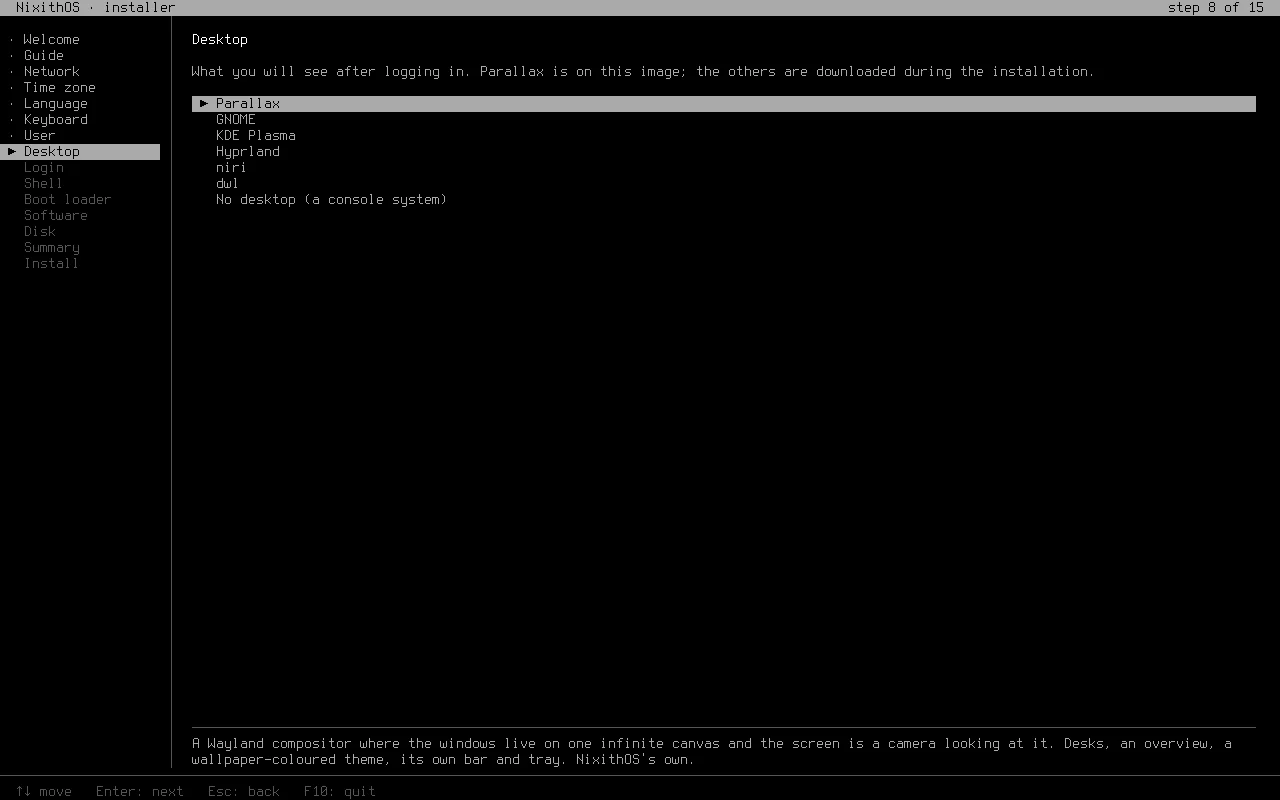
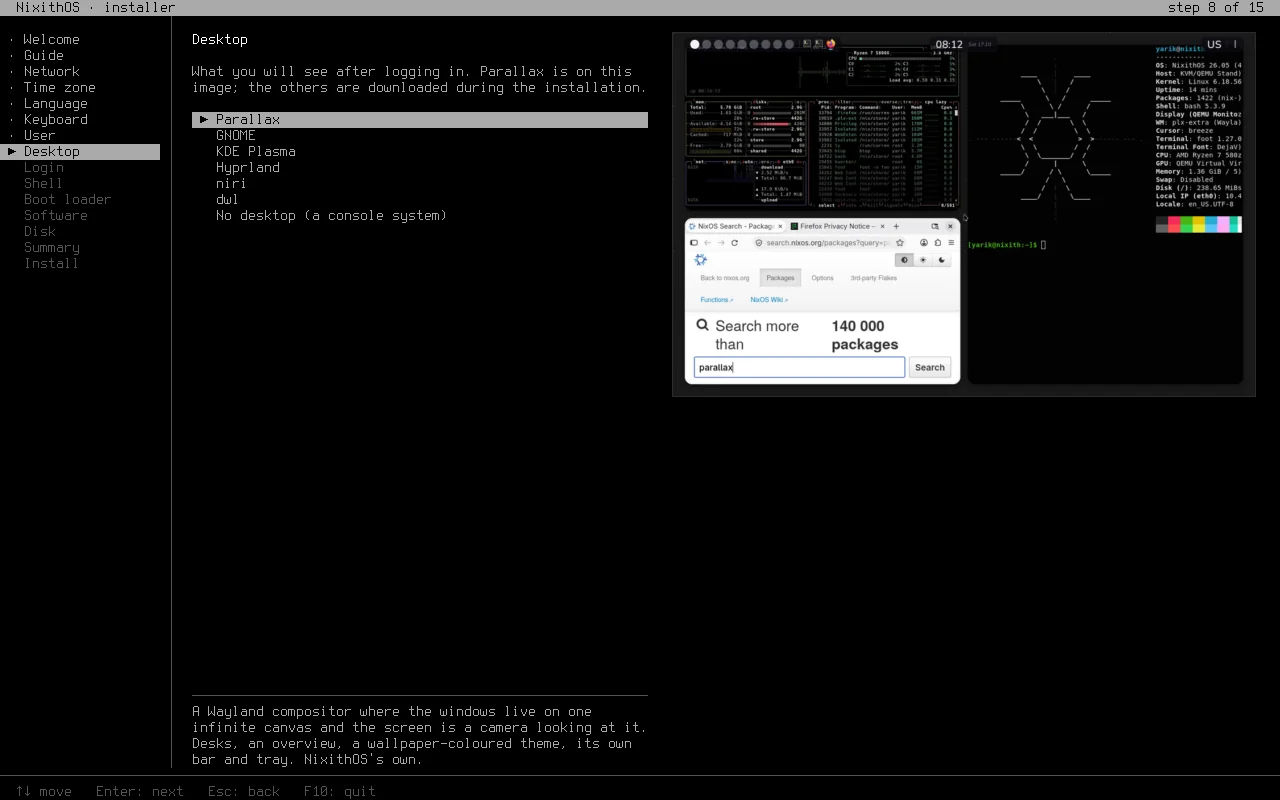
Сайт и README под выпуск 20.10: скриншоты в установщике и сеть формой
Новые снимки установщика с образа 26.05-20261020: шаг «Рабочий стол» со
скриншотом Parallax, форма скрытой сети с 802.1X, слайд во время
установки. Подписи и README говорят, что сеть — форма (WPA2, WPA3, WEP,
802.1X, скрытые сети, адрес вручную, PPPoE) и подключение переносится в
систему. Из подписи убрано, что nixith-net есть в установленной системе:
его там нет, только на образе.

Claude-Session: https://claude.ai/code/session_011xU2CXQBPDW9uXscP7i85F

diff --git a/site/ru/index.html b/site/ru/index.html
@@ -94,7 +94,7 @@
     <section id="install">
       <div class="sec-head">
         <h2>Установщик</h2>
-        <p>Образ сам запускает установщик: небольшую программу в консоли, на русском или английском. Пятнадцать коротких шагов, и до подтверждения итога на диск ничего не пишется.</p>
+        <p>Образ сам запускает установщик: небольшую программу в консоли, на русском или английском, со скриншотом каждого варианта, как их показывал Calamares. Пятнадцать коротких шагов, и до подтверждения итога на диск ничего не пишется.</p>
       </div>
       <div class="shots">
         <figure class="wide">
@@ -102,8 +102,8 @@
           <figcaption><b>Приветствие.</b> Сначала язык; колонка слева показывает все шаги и где вы сейчас.</figcaption>
         </figure>
         <figure>
-          <a href="../img/tui-network.webp"><img src="../img/tui-network.webp" width="1280" height="800" loading="lazy" alt="Шаг «Сеть»: подключено по кабелю"></a>
-          <figcaption><b>Сеть.</b> Кабель подключается сам; для Wi-Fi выберите сеть и введите пароль. В установленной системе тот же экран — <code>nixith-net</code>.</figcaption>
+          <a href="../img/tui-network.webp"><img src="../img/tui-network.webp" width="1280" height="800" loading="lazy" alt="Шаг «Сеть»: скрытая сеть Wi-Fi с WPA Enterprise (802.1X), заполнены метод, логин и пароль, ниже необязательные поля"></a>
+          <figcaption><b>Сеть.</b> Кабель подключается сам. Подключение — форма, а не один пароль: WPA2, WPA3, WEP или 802.1X с логином, скрытые сети, кабель с адресом, DNS и MAC вручную, DSL / PPPoE. Подключение остаётся в установленной системе.</figcaption>
         </figure>
         <figure>
           <a href="../img/tui-timezone.webp"><img src="../img/tui-timezone.webp" width="1280" height="800" loading="lazy" alt="Шаг «Часовой пояс», поиск сужен до Берлина"></a>
@@ -114,16 +114,16 @@
           <figcaption><b>Пользователь.</b> Логин составляется из имени (кириллица транслитерируется); тот же пароль можно дать root.</figcaption>
         </figure>
         <figure>
-          <a href="../img/tui-desktop.webp"><img src="../img/tui-desktop.webp" width="1280" height="800" loading="lazy" alt="Шаг «Рабочий стол», выбран Parallax с описанием ниже"></a>
-          <figcaption><b>Рабочий стол.</b> Parallax есть на образе, остальные скачиваются во время установки.</figcaption>
+          <a href="../img/tui-desktop.webp"><img src="../img/tui-desktop.webp" width="1280" height="800" loading="lazy" alt="Шаг «Рабочий стол», выбран Parallax: справа его скриншот, ниже описание"></a>
+          <figcaption><b>Рабочий стол.</b> Рядом со списком — скриншот выбранного варианта, здесь и у экрана входа, оболочки и загрузчика. Parallax есть на образе, остальные скачиваются во время установки.</figcaption>
         </figure>
         <figure>
           <a href="../img/tui-summary.webp"><img src="../img/tui-summary.webp" width="1280" height="800" loading="lazy" alt="Шаг «Итог»: все ответы и диск, который будет стёрт"></a>
           <figcaption><b>Итог.</b> Все ответы на одном экране и то, что будет стёрто.</figcaption>
         </figure>
         <figure>
-          <a href="../img/tui-install.webp"><img src="../img/tui-install.webp" width="1280" height="800" loading="lazy" alt="Шаг «Установка» завершён: пять этапов отмечены ok, ниже журнал"></a>
-          <figcaption><b>Установка.</b> Этапы и журнал по ходу дела; в QEMU с Parallax заняла около 16 минут.</figcaption>
+          <a href="../img/tui-install.webp"><img src="../img/tui-install.webp" width="1280" height="800" loading="lazy" alt="Шаг «Установка» в процессе: этапы, слайд о том, как добавить стол, со скриншотом экрана входа ly, последние строки журнала"></a>
+          <figcaption><b>Установка.</b> Этапы, а пока она идёт — слайды с советами и скриншотами (&larr; &rarr; листают, Tab показывает весь журнал); в QEMU с Parallax заняла около 16 минут.</figcaption>
         </figure>
       </div>
       <div class="choices">
@@ -170,7 +170,7 @@
     <section id="download">
       <div class="sec-head">
         <h2>Скачать</h2>
-        <p>Один образ для UEFI и BIOS, 1,8 ГБ. Запишите его на флешку (или положите на Ventoy) и загрузитесь с неё.</p>
+        <p>Один образ для UEFI и BIOS, 1,8 ГБ, выпуск от 20 октября 2026. Запишите его на флешку (или положите на Ventoy) и загрузитесь с неё.</p>
       </div>
       <div class="download">
         <div>

diff --git a/site/index.html b/site/index.html
@@ -94,7 +94,7 @@
     <section id="install">
       <div class="sec-head">
         <h2>The installer</h2>
-        <p>The image starts its installer by itself: a small program in the console, in English or Russian. Fifteen short steps, and nothing is written to the disk until the summary is confirmed.</p>
+        <p>The image starts its installer by itself: a small program in the console, in English or Russian, with a screenshot of every choice, the way Calamares showed them. Fifteen short steps, and nothing is written to the disk until the summary is confirmed.</p>
       </div>
       <div class="shots">
         <figure class="wide">
@@ -102,8 +102,8 @@
           <figcaption><b>Welcome.</b> The language comes first; the column on the left shows every step and where you are.</figcaption>
         </figure>
         <figure>
-          <a href="img/tui-network.webp"><img src="img/tui-network.webp" width="1280" height="800" loading="lazy" alt="The Network step: connected by cable"></a>
-          <figcaption><b>Network.</b> A cable connects by itself; for Wi-Fi pick a network and type its password. The same screen is <code>nixith-net</code> on an installed system.</figcaption>
+          <a href="img/tui-network.webp"><img src="img/tui-network.webp" width="1280" height="800" loading="lazy" alt="The Network step: a hidden Wi-Fi network with WPA Enterprise (802.1X), the method, the login and the password filled in, the optional fields below"></a>
+          <figcaption><b>Network.</b> A cable connects by itself. A network is a form, not just a password: WPA2, WPA3, WEP or 802.1X with a login, hidden networks, a cable with the address, DNS and MAC by hand, DSL / PPPoE. The connection stays in the installed system.</figcaption>
         </figure>
         <figure>
           <a href="img/tui-timezone.webp"><img src="img/tui-timezone.webp" width="1280" height="800" loading="lazy" alt="The Time zone step with the search narrowed to Berlin"></a>
@@ -114,16 +114,16 @@
           <figcaption><b>User.</b> The login is made from your name (Cyrillic is transliterated); the same password can go to root.</figcaption>
         </figure>
         <figure>
-          <a href="img/tui-desktop.webp"><img src="img/tui-desktop.webp" width="1280" height="800" loading="lazy" alt="The Desktop step with Parallax selected and described below"></a>
-          <figcaption><b>Desktop.</b> Parallax is on the image; the others are downloaded during the installation.</figcaption>
+          <a href="img/tui-desktop.webp"><img src="img/tui-desktop.webp" width="1280" height="800" loading="lazy" alt="The Desktop step with Parallax selected: its screenshot on the right, its description below"></a>
+          <figcaption><b>Desktop.</b> A screenshot of the choice is next to the list, here and for the login screen, the shell and the boot loader. Parallax is on the image; the others are downloaded during the installation.</figcaption>
         </figure>
         <figure>
           <a href="img/tui-summary.webp"><img src="img/tui-summary.webp" width="1280" height="800" loading="lazy" alt="The Summary step listing every choice and the disk to be erased"></a>
           <figcaption><b>Summary.</b> Every answer on one screen, and what will be erased.</figcaption>
         </figure>
         <figure>
-          <a href="img/tui-install.webp"><img src="img/tui-install.webp" width="1280" height="800" loading="lazy" alt="The Install step finished, in Russian: five stages marked ok and the log below"></a>
-          <figcaption><b>Install.</b> The stages and the log as they go; in QEMU with Parallax it took about 16 minutes.</figcaption>
+          <a href="img/tui-install.webp"><img src="img/tui-install.webp" width="1280" height="800" loading="lazy" alt="The Install step under way: the stages, a slide about adding a desktop with a screenshot of the ly login screen, the last lines of the log"></a>
+          <figcaption><b>Install.</b> The stages, and slides with tips and screenshots while it works (&larr; &rarr; turn them, Tab shows the whole log); in QEMU with Parallax it took about 16 minutes.</figcaption>
         </figure>
       </div>
       <div class="choices">
@@ -170,7 +170,7 @@
     <section id="download">
       <div class="sec-head">
         <h2>Download</h2>
-        <p>One image for UEFI and BIOS, 1.8 GB. Write it to a USB stick (or put it on Ventoy) and boot from it.</p>
+        <p>One image for UEFI and BIOS, 1.8 GB, released on 20 October 2026. Write it to a USB stick (or put it on Ventoy) and boot from it.</p>
       </div>
       <div class="download">
         <div>

diff --git a/README.ru.md b/README.ru.md
@@ -290,10 +290,14 @@ $ nix-build -A isoGraphical         # …-graphical-…: LXQt и Calamares (2,8 
 ([pkgs/nixith-installer](pkgs/nixith-installer)).
 
 nixith-installer — небольшая программа на C поверх ncurses (около 100 КБ),
-говорит по-английски и по-русски. Шаги — те же, что у Calamares ниже, а
-впереди шаг сети: упрощённый nmtui поверх `nmcli` (кабель подключается сам,
-Wi-Fi — список и пароль; `nixith-net` запускает этот шаг отдельно, в любой
-системе). До подтверждения итога ничего не записывается; потом
+говорит по-английски и по-русски. Шаги — те же, что у Calamares ниже, с
+теми же скриншотами рядом с каждым вариантом и теми же слайдами во время
+установки (на консоли Linux они рисуются прямо во фреймбуфер), а впереди шаг
+сети: упрощённый nmtui поверх `nmcli`. Кабель подключается сам; подключение —
+форма, а не один пароль: WPA2, WPA3, WEP или 802.1X с логином, скрытые сети,
+кабель с адресом, DNS и MAC вручную, DSL / PPPoE. Сделанное там подключение
+переносится в установленную систему. `nixith-net` запускает этот шаг
+отдельно, в любой системе. До подтверждения итога ничего не записывается; потом
 [install.sh](pkgs/nixith-installer/install.sh) размечает диск (GPT: EFI-раздел
 на 1 ГиБ или раздел BIOS boot, остальное — ext4 или btrfs) или берёт то, что
 смонтировано в `/mnt`, пишет `/etc/nixith/configuration.nix` так же, как

diff --git a/README.md b/README.md
@@ -299,10 +299,14 @@ logged in on tty1 and **nixith-installer** starts by itself
 
 nixith-installer is a small C program over ncurses (about 100 KB) that
 speaks English or Russian. Its steps are those of the Calamares installer
-below, with a network step in front: a simpler nmtui on top of `nmcli`
-(a cable connects by itself, Wi-Fi is a list and a password; `nixith-net`
-starts that step alone, on any system). Nothing is written until the summary
-is confirmed; then [install.sh](pkgs/nixith-installer/install.sh)
+below, with the same screenshots next to every choice and the same slides
+during the installation (on the Linux console they are drawn straight to the
+framebuffer), and with a network step in front: a simpler nmtui on top of
+`nmcli`. A cable connects by itself; a network is a form, not just a
+password: WPA2, WPA3, WEP or 802.1X with a login, hidden networks, a cable
+with the address, DNS and MAC by hand, DSL / PPPoE. The connection made there
+is copied into the installed system. `nixith-net` starts that step alone, on
+any system. Nothing is written until the summary is confirmed; then [install.sh](pkgs/nixith-installer/install.sh)
 partitions the disk (GPT: a 1 GiB EFI partition, or a BIOS boot partition,
 and ext4 or btrfs for the rest) or takes what is mounted on `/mnt`, writes
 `/etc/nixith/configuration.nix` the way Calamares did, with the passwords as
